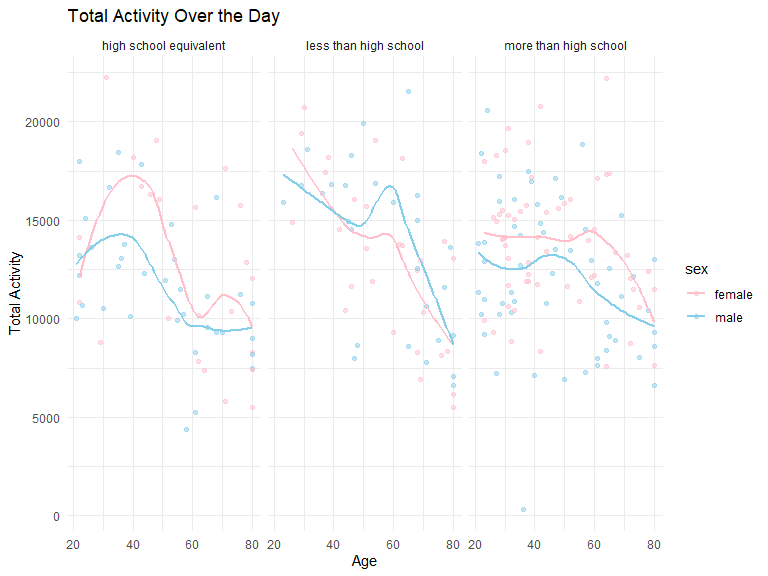
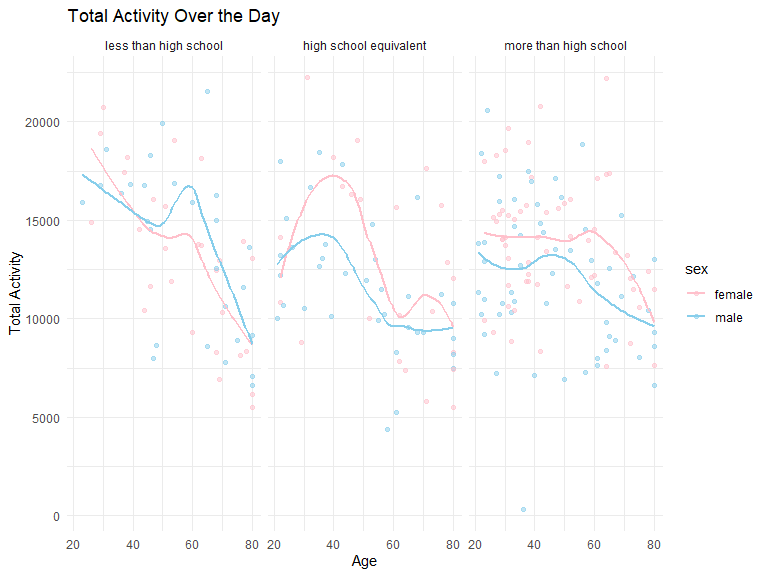
Question 3 revise: add "education = factor" of level for better plot graph

diff --git a/p8105_hw3_yw3995.md b/p8105_hw3_yw3995.md
@@ -143,12 +143,7 @@ instacart_mean_hour = instacart |>
     names_from = order_dow, 
     values_from = mean_hour) |>
   knitr::kable(digits = 2)
-```
 
-    ## `summarise()` has grouped output by 'product_name'. You can override using the
-    ## `.groups` argument.
-
-``` r
 instacart_mean_hour
 ```
 
@@ -271,7 +266,7 @@ excellent_brfss_smart |>
 
 - This is a line graph about the average value over time within each
   state across years limited to Excellent responses, which contains
-  **439** states.
+  **51** states.
 
 - All the states have the generally average value **range** from 18 to
   27.
@@ -343,7 +338,8 @@ nhanes_covar =
     education = recode(education,
                        `1` = "less than high school",
                        `2` = "high school equivalent",
-                       `3` = "more than high school")
+                       `3` = "more than high school"),
+    education = factor(education, levels = c("less than high school", "high school equivalent", "more than high school"))
   ) |> 
   arrange(education) |> 
   filter(age >= "21") |> 
@@ -397,8 +393,8 @@ sex_nhanes
 
 | education              | female | male |
 |:-----------------------|-------:|-----:|
-| high school equivalent |     23 |   35 |
 | less than high school  |     28 |   27 |
+| high school equivalent |     23 |   35 |
 | more than high school  |     59 |   56 |
 
 - create a visualization of the age distributions for men and women in
@@ -453,13 +449,9 @@ ggplot(age_nhanes, aes(x = age, fill = sex)) +
 ``` r
 activity_nhanes = merge_nhanes |> 
   group_by(seqn, sex, education, age) |> 
-  summarize(total_activity = sum(activity))
-```
+  summarize(total_activity = sum(activity)) |> 
+  distinct()
 
-    ## `summarise()` has grouped output by 'seqn', 'sex', 'education'. You can
-    ## override using the `.groups` argument.
-
-``` r
 ggplot(activity_nhanes, aes(x = age, y = total_activity, color = sex)) +
   geom_point(alpha = .5) +
   geom_smooth(se = FALSE) +
@@ -469,8 +461,6 @@ ggplot(activity_nhanes, aes(x = age, y = total_activity, color = sex)) +
   ggtitle("Total Activity Over the Day") +
   theme_minimal()
 ```
-
-    ## `geom_smooth()` using method = 'loess' and formula = 'y ~ x'
 
 <img src="p8105_hw3_yw3995_files/figure-gfm/unnamed-chunk-20-1.png" width="90%" />
 
@@ -502,12 +492,7 @@ ggplot(activity_nhanes, aes(x = age, y = total_activity, color = sex)) +
 activity24_nhanes = merge_nhanes |> 
   group_by(education, sex, min) |> 
   summarize(mean_activity = mean(activity))
-```
 
-    ## `summarise()` has grouped output by 'education', 'sex'. You can override using
-    ## the `.groups` argument.
-
-``` r
 ggplot(activity24_nhanes, aes(x = min, y = mean_activity, color = sex)) +
   geom_point(alpha = .2) +
   geom_smooth(se = FALSE) +
@@ -517,7 +502,5 @@ ggplot(activity24_nhanes, aes(x = min, y = mean_activity, color = sex)) +
   ggtitle("Activity Over the Course of The Day") +
   theme_minimal()
 ```
-
-    ## `geom_smooth()` using method = 'gam' and formula = 'y ~ s(x, bs = "cs")'
 
 <img src="p8105_hw3_yw3995_files/figure-gfm/unnamed-chunk-21-1.png" width="90%" />
